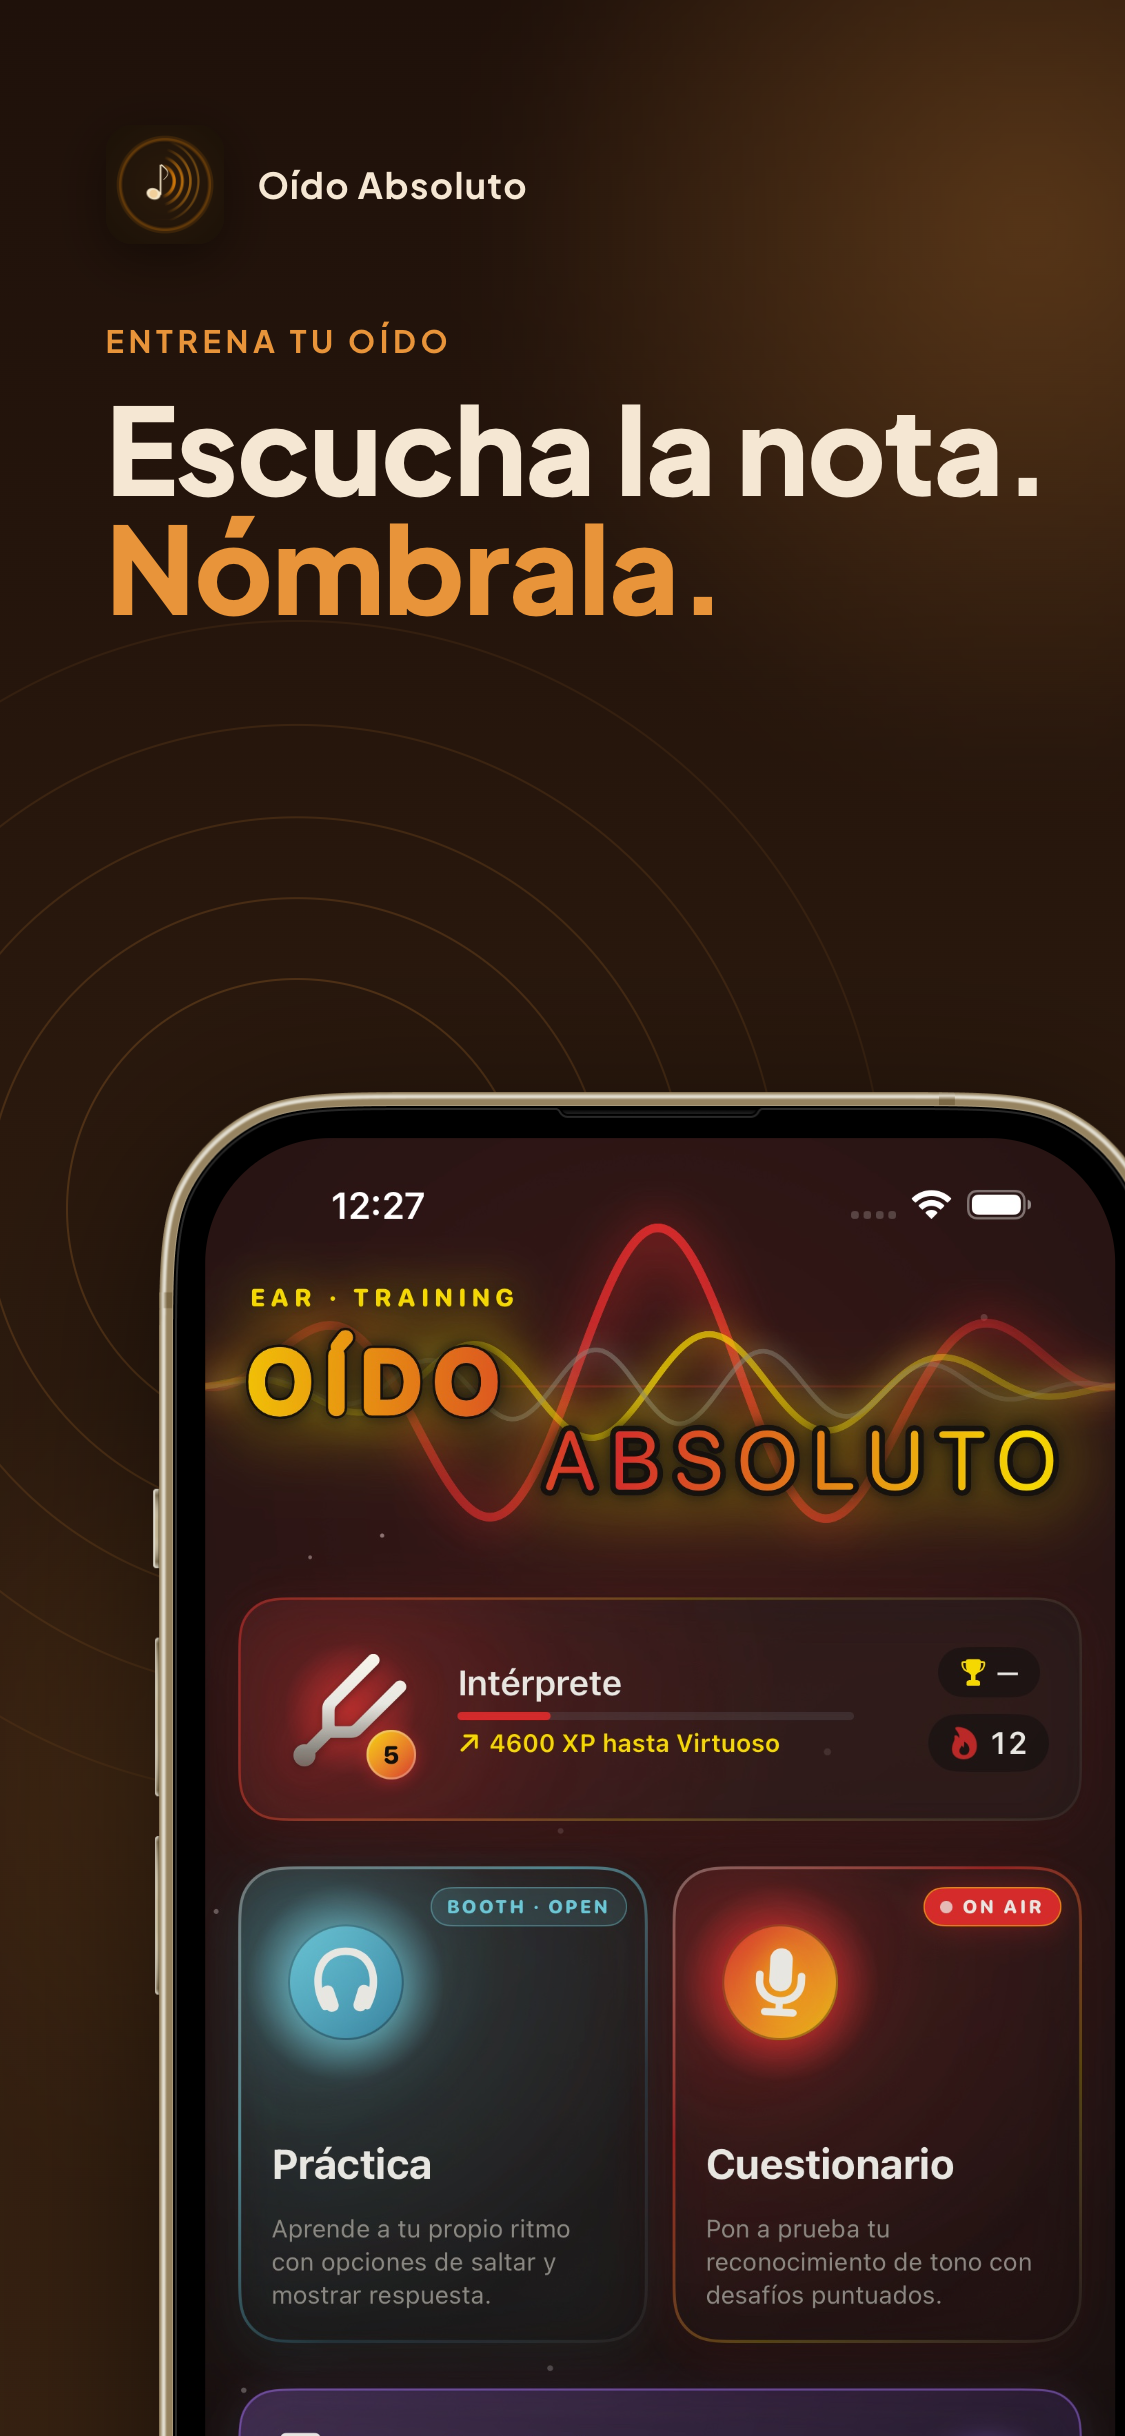
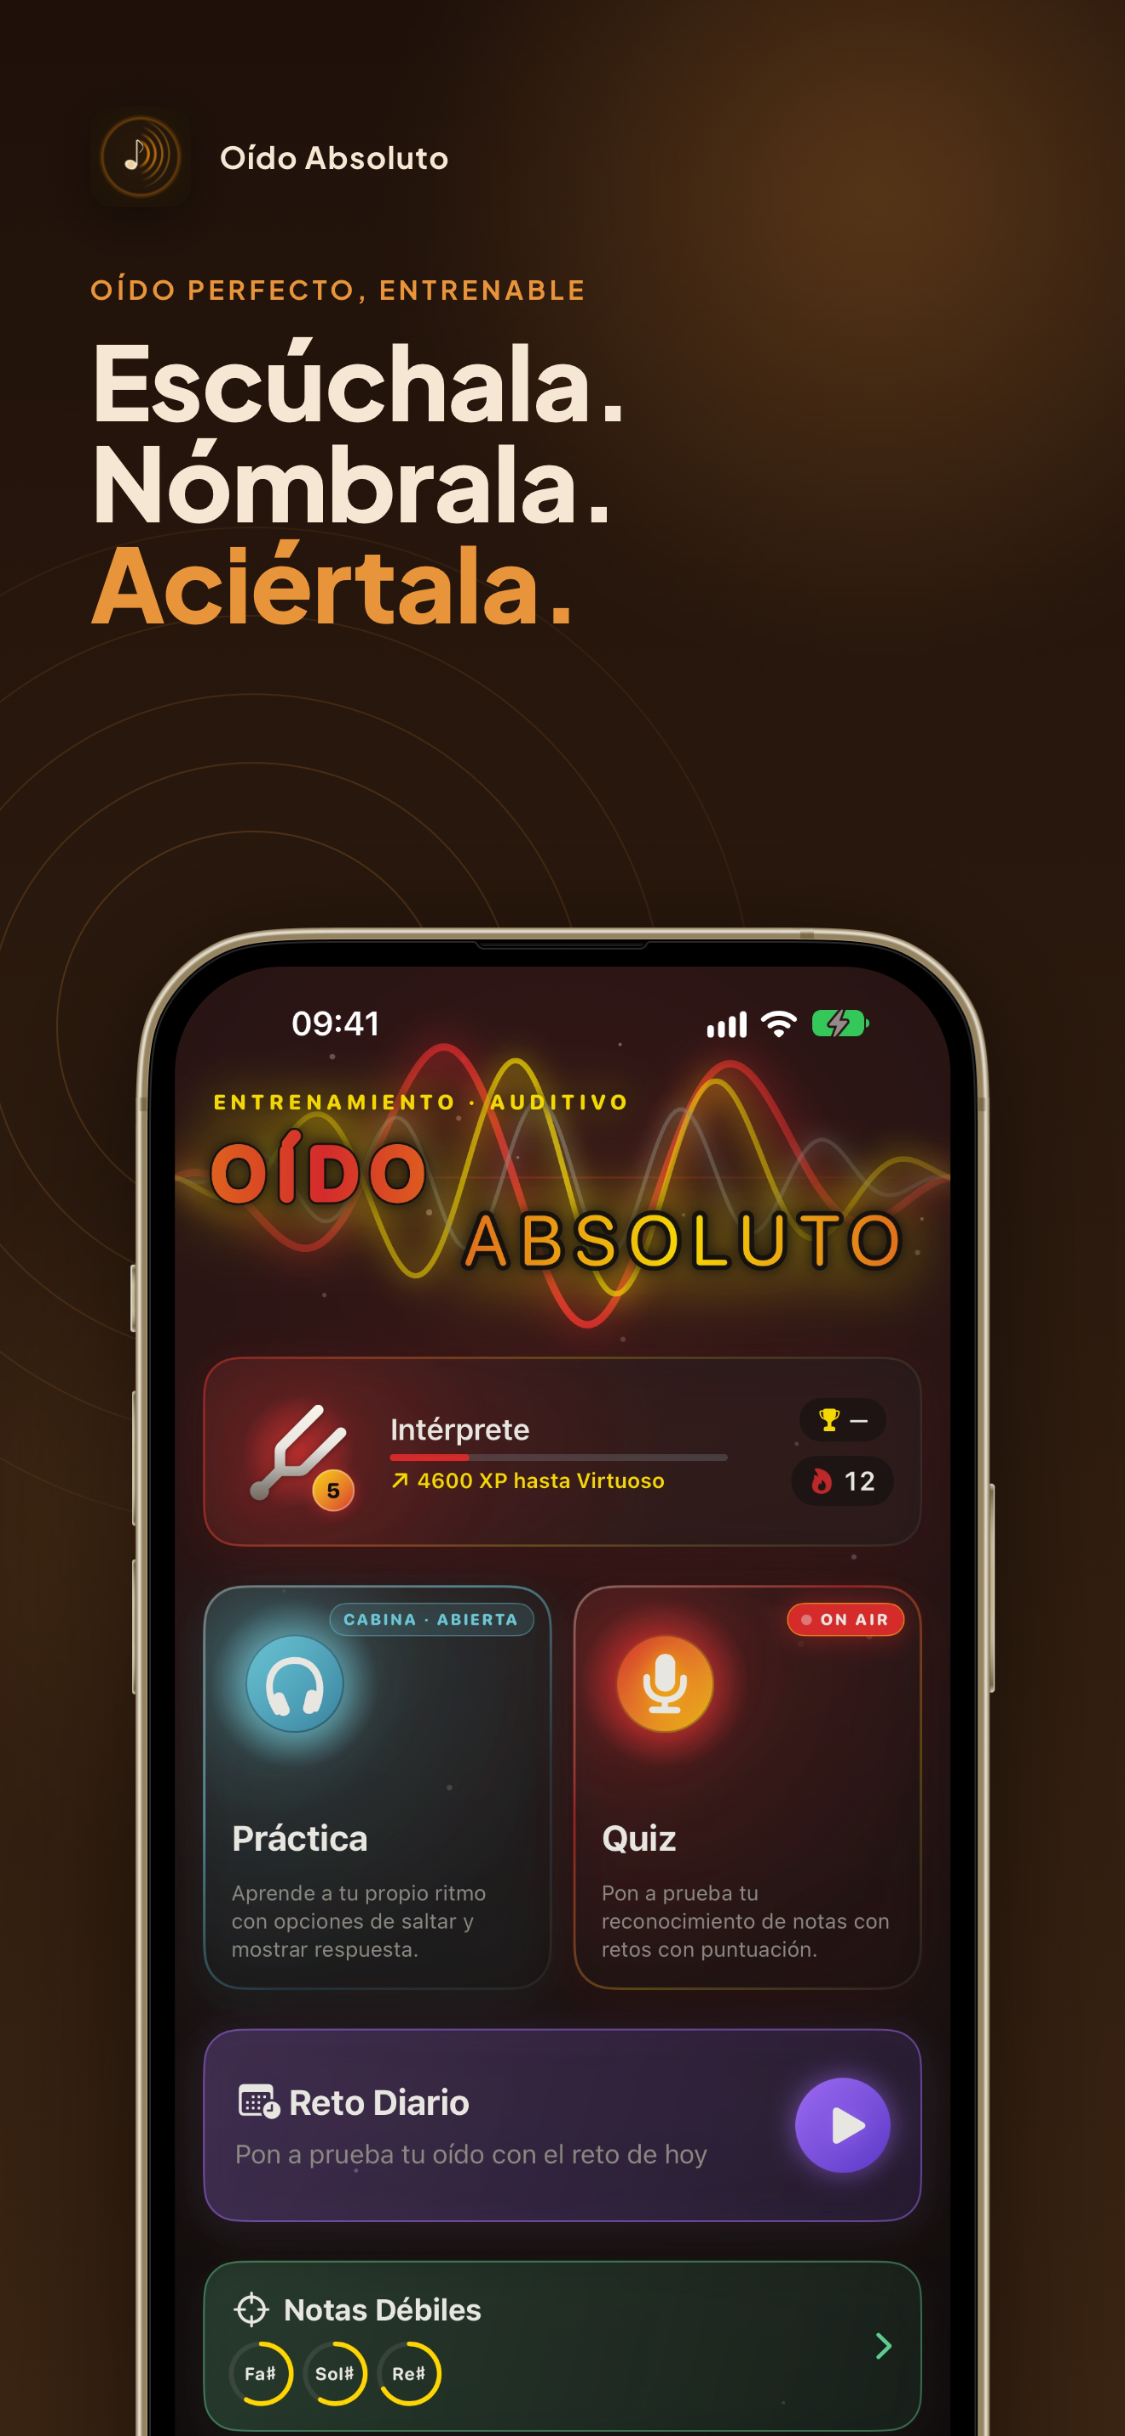
Showcase: five screens, Weak Notes at position 2; refreshed iOS 27 captures
The 1125px exports used to be cropped copies of the 6.9" slide; they are
now scaled, so the showcase shows the full composition.

diff --git a/src/app/[locale]/_dictionaries/ja.ts b/src/app/[locale]/_dictionaries/ja.ts
@@ -70,9 +70,10 @@ const ja: Dictionary = {
     title: "楽器のようにデザインしました。",
     list: [
       { label: "耳を鍛える", headline: "音を聴いて、 / 音を当てる。", file: "01-hero" },
-      { label: "絶好調", headline: "ゾーンに / 入ろう。", file: "02-onfire" },
-      { label: "あなたの進歩", headline: "毎日、 / すべての音を / 正確に。", file: "03-progress" },
-      { label: "ランクを上げる", headline: "レベルアップ。 / 連続を守ろう。", file: "04-rank" },
+      { label: "苦手な音をトレーニング", headline: "苦手な音を見つけて、 / 克服しよう。", file: "02-weaknotes" },
+      { label: "絶好調", headline: "ゾーンに / 入ろう。", file: "03-onfire" },
+      { label: "あなたの進歩", headline: "毎日、 / すべての音を / 正確に。", file: "04-progress" },
+      { label: "ランクを上げる", headline: "レベルアップ。 / 連続を守ろう。", file: "05-rank" },
     ],
   },
   science: {

diff --git a/src/app/[locale]/_dictionaries/fr.ts b/src/app/[locale]/_dictionaries/fr.ts
@@ -70,9 +70,10 @@ const fr: Dictionary = {
     title: "Conçue comme un instrument.",
     list: [
       { label: "ENTRAÎNE TON OREILLE", headline: "Écoute la note. / Nomme-la.", file: "01-hero" },
-      { label: "SÉRIES EN FEU", headline: "Reste / dans la zone.", file: "02-onfire" },
-      { label: "TES PROGRÈS", headline: "Chaque note, / chaque jour, / plus juste.", file: "03-progress" },
-      { label: "GRIMPE DANS LES RANGS", headline: "Monte de niveau. / Garde tes séries.", file: "04-rank" },
+      { label: "NOTES FAIBLES", headline: "Repère tes notes faibles. / Travaille-les.", file: "02-weaknotes" },
+      { label: "SÉRIES EN FEU", headline: "Reste / dans la zone.", file: "03-onfire" },
+      { label: "TES PROGRÈS", headline: "Chaque note, / chaque jour, / plus juste.", file: "04-progress" },
+      { label: "GRIMPE DANS LES RANGS", headline: "Monte de niveau. / Garde tes séries.", file: "05-rank" },
     ],
   },
   science: {

diff --git a/src/app/[locale]/_dictionaries/de.ts b/src/app/[locale]/_dictionaries/de.ts
@@ -70,9 +70,10 @@ const de: Dictionary = {
     title: "Gestaltet wie ein Instrument.",
     list: [
       { label: "TRAINIERE DEIN GEHÖR", headline: "Hör den Ton. / Bestimme den Ton.", file: "01-hero" },
-      { label: "HEISSE SERIEN", headline: "Komm in / den Flow.", file: "02-onfire" },
-      { label: "DEIN FORTSCHRITT", headline: "Jeden Ton, / jeden Tag / ein Stück besser.", file: "03-progress" },
-      { label: "STEIG AUF", headline: "Nächstes Level. / Serien sichern.", file: "04-rank" },
+      { label: "SCHWACHE NOTEN TRAINIEREN", headline: "Finde deine schwachen Noten. / Trainiere sie.", file: "02-weaknotes" },
+      { label: "HEISSE SERIEN", headline: "Komm in / den Flow.", file: "03-onfire" },
+      { label: "DEIN FORTSCHRITT", headline: "Jeden Ton, / jeden Tag / ein Stück besser.", file: "04-progress" },
+      { label: "STEIG AUF", headline: "Nächstes Level. / Serien sichern.", file: "05-rank" },
     ],
   },
   science: {

diff --git a/src/app/[locale]/_dictionaries/es.ts b/src/app/[locale]/_dictionaries/es.ts
@@ -70,9 +70,10 @@ const es: Dictionary = {
     title: "Diseñada como un instrumento.",
     list: [
       { label: "ENTRENA TU OÍDO", headline: "Escucha la nota. / Nómbrala.", file: "01-hero" },
-      { label: "RACHAS QUE QUEMAN", headline: "Entra / en zona.", file: "02-onfire" },
-      { label: "TU PROGRESO", headline: "Cada nota, / cada día, / más afinada.", file: "03-progress" },
-      { label: "SUBE DE RANGO", headline: "Sube de nivel. / Mantén tus rachas.", file: "04-rank" },
+      { label: "NOTAS DÉBILES", headline: "Descubre tus notas débiles. / Entrénalas.", file: "02-weaknotes" },
+      { label: "RACHAS QUE QUEMAN", headline: "Entra / en zona.", file: "03-onfire" },
+      { label: "TU PROGRESO", headline: "Cada nota, / cada día, / más afinada.", file: "04-progress" },
+      { label: "SUBE DE RANGO", headline: "Sube de nivel. / Mantén tus rachas.", file: "05-rank" },
     ],
   },
   science: {

diff --git a/src/app/[locale]/_dictionaries/en.ts b/src/app/[locale]/_dictionaries/en.ts
@@ -70,9 +70,10 @@ const en: Dictionary = {
     title: "Designed like an instrument.",
     list: [
       { label: "TRAIN YOUR EAR", headline: "Hear the note. / Name the note.", file: "01-hero" },
-      { label: "HOT STREAKS", headline: "Catch fire. / Stay on it.", file: "02-onfire" },
-      { label: "YOUR PROGRESS", headline: "Every note, / every day, / sharper.", file: "03-progress" },
-      { label: "CLIMB THE RANKS", headline: "Level up. / Lock in streaks.", file: "04-rank" },
+      { label: "WEAK NOTES TRAINING", headline: "Find your weak notes. / Fix them.", file: "02-weaknotes" },
+      { label: "HOT STREAKS", headline: "Catch fire. / Stay on it.", file: "03-onfire" },
+      { label: "YOUR PROGRESS", headline: "Every note, / every day, / sharper.", file: "04-progress" },
+      { label: "CLIMB THE RANKS", headline: "Level up. / Lock in streaks.", file: "05-rank" },
     ],
   },
   science: {

diff --git a/src/app/[locale]/_dictionaries/zh-Hans.ts b/src/app/[locale]/_dictionaries/zh-Hans.ts
@@ -70,9 +70,10 @@ const zhHans: Dictionary = {
     title: "像乐器一样的设计。",
     list: [
       { label: "训练你的耳朵", headline: "听音， / 说出音名。", file: "01-hero" },
-      { label: "连击火热", headline: "进入 / 心流。", file: "02-onfire" },
-      { label: "你的进步", headline: "每天 / 每个音 / 更敏锐。", file: "03-progress" },
-      { label: "段位攀升", headline: "升级。 / 守住连胜。", file: "04-rank" },
+      { label: "薄弱音训练", headline: "找出你的薄弱音， / 逐个攻克。", file: "02-weaknotes" },
+      { label: "连击火热", headline: "进入 / 心流。", file: "03-onfire" },
+      { label: "你的进步", headline: "每天 / 每个音 / 更敏锐。", file: "04-progress" },
+      { label: "段位攀升", headline: "升级。 / 守住连胜。", file: "05-rank" },
     ],
   },
   science: {

diff --git a/src/app/[locale]/_components/Showcase.tsx b/src/app/[locale]/_components/Showcase.tsx
@@ -23,7 +23,7 @@ export default function Showcase({ locale, dict }: Props) {
           </div>
         </div>
 
-        <div className="mt-14 grid gap-6 sm:grid-cols-2 lg:grid-cols-4">
+        <div className="mt-14 grid gap-6 sm:grid-cols-2 md:grid-cols-3 lg:grid-cols-5">
           {dict.screens.list.map((s, idx) => {
             const headlineParts = s.headline.split("/").map((p) => p.trim());
             return (

diff --git a/src/app/[locale]/_dictionaries/types.ts b/src/app/[locale]/_dictionaries/types.ts
@@ -36,7 +36,7 @@ export type Dictionary = {
     list: Array<{
       label: string;
       headline: string;
-      file: "01-hero" | "02-onfire" | "03-progress" | "04-rank";
+      file: "01-hero" | "02-weaknotes" | "03-onfire" | "04-progress" | "05-rank";
     }>;
   };
   science: {
